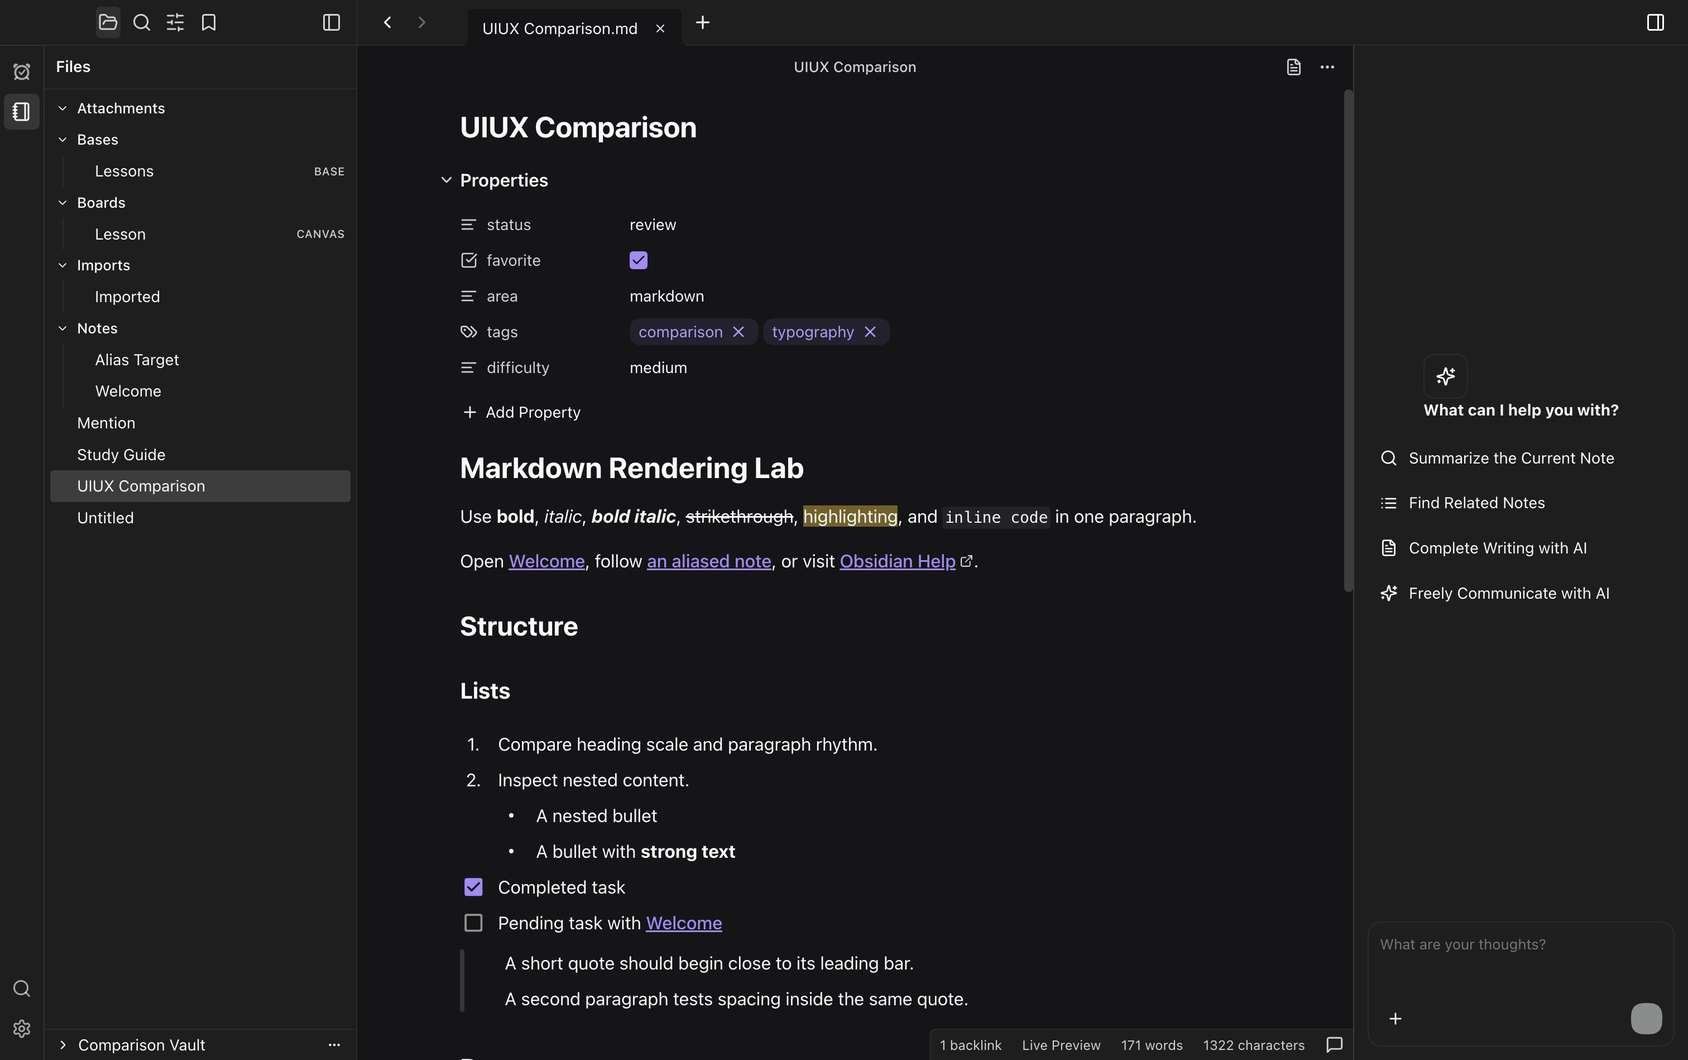
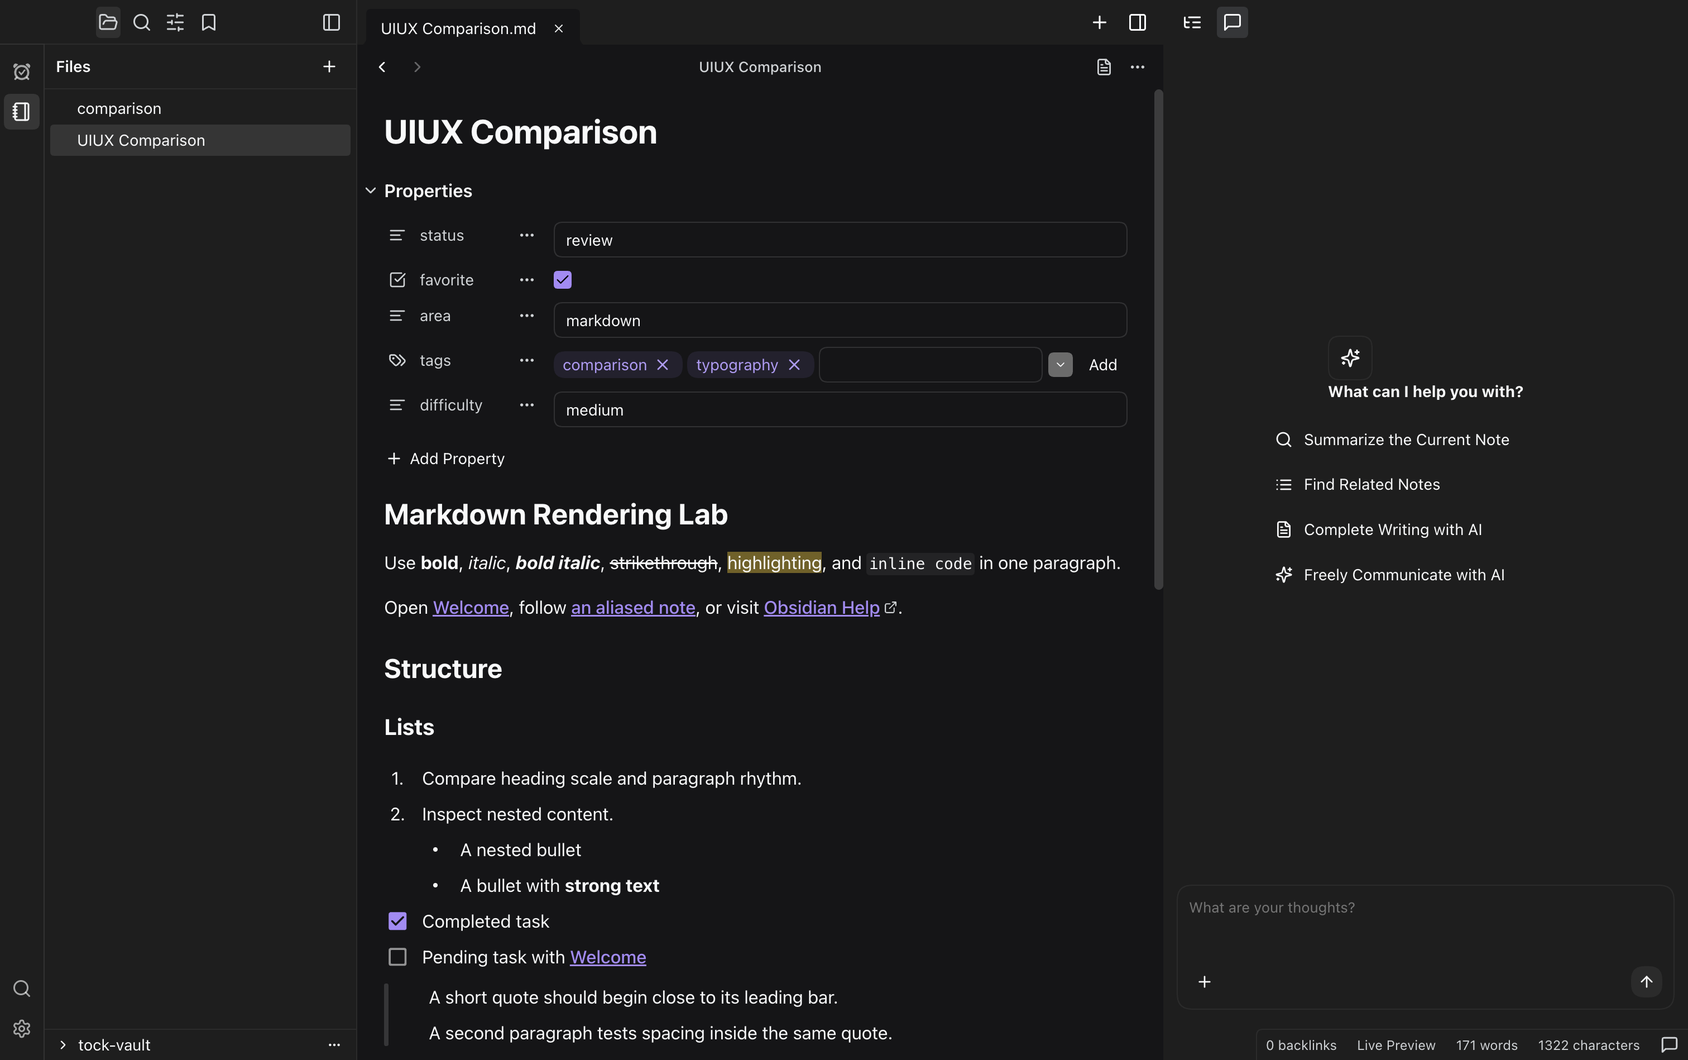
docs(tocktutor): refresh footer and composer screenshots

diff --git a/.agents/uiux/tocktutor/tocktutor.html b/.agents/uiux/tocktutor/tocktutor.html
@@ -348,9 +348,10 @@
     </section>
 
     <section class="surface" id="assistant">
-      <p class="section-number">Surface 20</p><h2>Assistant</h2><p class="section-note">The same <code>comparison.md</code> note in Live Preview beside an empty assistant conversation. Obsidian uses the already-installed Claudian 2.3.0 plugin. No prompt was sent and no response was invented; provider/model controls remain product-specific.</p>
+      <p class="section-number">Surface 20</p><h2>Assistant</h2><p class="section-note">The original shared note in Live Preview beside an empty assistant conversation. TockTutor's October 2 refresh preserves its exact 1,324 bytes; the Obsidian side retains its earlier Claudian 2.3.0 reference. No prompt was sent and no response was invented; provider/model controls remain product-specific.</p>
+      <p class="note"><strong>Footer and Composer Refresh:</strong> The footer stays at the far-right edge when Properties or Assistant opens. The composer has an extra 5 CSS pixels of upward clearance above the footer-safe area; all eight appearances show a 17-pixel gap and keyboard-accessible controls. Only the two TockTutor screenshots were refreshed; both references and all 69 other captures are unchanged. See the <a href="../../../.beads/reports/2026-10-02-tocktutor-footer-composer.md">footer and composer proof</a>.</p>
       <div class="comparison">
-        <figure class="tocktutor"><figcaption><span class="caption-title">TockTutor · Assistant</span><span class="badge">Current</span></figcaption><a class="screenshot-link" href="screenshots/tocktutor-assistant.png"><img src="screenshots/tocktutor-assistant.png" alt="TockTutor assistant"></a></figure>
+        <figure class="tocktutor"><figcaption><span class="caption-title">TockTutor · Assistant</span><span class="badge">Current</span></figcaption><a class="screenshot-link" href="screenshots/tocktutor-assistant.png"><img src="screenshots/tocktutor-assistant.png" alt="TockTutor showing the original shared note beside an empty Assistant with the footer at the far right and the composer lifted five pixels above the footer-safe area"></a></figure>
         <figure class="obsidian"><figcaption><span class="caption-title">Obsidian · Claudian</span><span class="badge">Installed Plugin</span></figcaption><a class="screenshot-link" href="screenshots/obsidian-assistant.png"><img src="screenshots/obsidian-assistant.png" alt="Obsidian Claudian 2.3.0 empty conversation beside the shared comparison.md content"></a></figure>
       </div>
     </section>
@@ -422,10 +423,10 @@
     </section>
 
     <section class="surface" id="imported-properties">
-      <p class="section-number">Surface 29</p><h2>Imported Property Controls</h2><p class="section-note">Both apps show the same <a href="comparison.md"><code>comparison.md</code></a>, including Markdown Rendering Lab and its original body. Its five existing properties are joined by a date, a date and time, an exponent-form number, and a nested object. All nine rows are visible with the in-note Properties group collapsed and each sidebar at 470 CSS pixels. TockTutor has separate Properties and Assistant titlebar buttons and the native calendar button before the date for both Date and Date & Time. Editable tags, row actions, and six type choices remain available. The nested value remains Use Source Mode in TockTutor and an object with the native Type mismatch, expected Text warning in Obsidian; controls and presentation are not identical.</p>
+      <p class="section-number">Surface 29</p><h2>Imported Property Controls</h2><p class="section-note">Both apps show the same <a href="comparison.md"><code>comparison.md</code></a>, including Markdown Rendering Lab and its original body. Its five existing properties are joined by a date, a date and time, an exponent-form number, and a nested object. All nine rows are visible with the in-note Properties group collapsed and each sidebar at 470 CSS pixels. TockTutor has separate Properties and Assistant titlebar buttons and the native calendar button before the date for both Date and Date & Time. Its footer stays at the far-right window edge while Properties is open. Editable tags, row actions, and six type choices remain available. The nested value remains Use Source Mode in TockTutor and an object with the native Type mismatch, expected Text warning in Obsidian; controls and presentation are not identical.</p>
       <p class="fixture-proof"><strong>Properties Layout Refresh:</strong> TockTutor's compact rows align with the installed Obsidian reference within one CSS pixel; separate Properties and Assistant buttons sit in the titlebar. Both show identical 1,413-byte <code>comparison.md</code> copies and the same 170-byte property-type registry. Built-in dark/no skin, 1512 × 949 CSS pixels at 2×, 3024 × 1898 PNGs, and zero capture-time errors are verified. Only TockTutor's screenshot was replaced; the installed reference and all 71 other captures are unchanged. See the <a href="content-alignment.md">updated capture proof</a>. No Obsidian reinstall, update, user-vault change, save/restoration test, or exhaustive native-parity claim.</p>
       <div class="comparison">
-        <figure class="tocktutor"><figcaption><span class="caption-title">TockTutor · Imported Properties</span><span class="badge">Current</span></figcaption><a class="screenshot-link" href="screenshots/tocktutor-imported-properties.png"><img loading="lazy" src="screenshots/tocktutor-imported-properties.png" alt="TockTutor showing comparison.md and Markdown Rendering Lab beside nine compact Properties rows, with separate titlebar buttons, calendars before both dates, exponent-form number and Source Mode fallback"></a></figure>
+        <figure class="tocktutor"><figcaption><span class="caption-title">TockTutor · Imported Properties</span><span class="badge">Current</span></figcaption><a class="screenshot-link" href="screenshots/tocktutor-imported-properties.png"><img loading="lazy" src="screenshots/tocktutor-imported-properties.png" alt="TockTutor showing comparison.md and Markdown Rendering Lab beside nine compact Properties rows, with separate titlebar buttons, calendars before both dates, exponent-form number, Source Mode fallback and footer at the far-right window edge"></a></figure>
         <figure class="obsidian"><figcaption><span class="caption-title">Obsidian · Imported Properties</span><span class="badge">Reference</span></figcaption><a class="screenshot-link" href="screenshots/obsidian-imported-properties.png"><img loading="lazy" src="screenshots/obsidian-imported-properties.png" alt="Already installed Obsidian showing the identical comparison.md and Markdown Rendering Lab with all nine File properties rows, dates, checked favorite, tags, exponent-form number and nested-value warning"></a></figure>
       </div>
     </section>

diff --git a/tests/tocktutor-gallery.test.ts b/tests/tocktutor-gallery.test.ts
@@ -205,8 +205,8 @@ test('pairs Imported Property Controls with genuine Obsidian and the identical s
   assert.equal(refresh.samePropertyTypes, true)
   assert.equal(refresh.reusesExistingBuild, true)
   const current = proof.captures['tocktutor-imported-properties.png']
-  assert.equal(current.sourceCommit, proof.propertyCalendarRefresh.sourceCommit)
-  assert.equal(current.sha256, proof.propertyCalendarRefresh.screenshotSha256)
+  assert.equal(current.sourceCommit, proof.footerComposerRefresh.sourceCommit)
+  assert.equal(current.sha256, proof.footerComposerRefresh.screenshotSha256s['tocktutor-imported-properties.png'])
   assert.equal(current.visibleState.rightSidebar, true)
   assert.equal(current.visibleState.fullHeightNote, true)
   assert.equal(current.visibleState.rootColorScheme, 'dark')
@@ -273,7 +273,7 @@ test('publishes the current Properties comparison in the canonical gallery from 
   assert.equal(refresh.registryUnchanged, true)
   const current = proof.captures['tocktutor-imported-properties.png']
   const native = proof.captures['obsidian-imported-properties.png']
-  assert.equal(current.sourceCommit, proof.propertyCalendarRefresh.sourceCommit)
+  assert.equal(current.sourceCommit, proof.footerComposerRefresh.sourceCommit)
   assert.equal(refresh.status, 'verified-historical')
   assert.equal(native.sha256, refresh.screenshotSha256s['obsidian-imported-properties.png'])
   assert.equal(native.entry, '/Applications/Obsidian.app/Contents/Resources/app.asar')
@@ -344,9 +344,9 @@ test('aligns compact Properties rows and titlebar buttons without replacing the 
 test('places native calendar controls before both property dates in all eight appearances', () => {
   const refresh = proof.propertyCalendarRefresh
   const current = proof.captures['tocktutor-imported-properties.png']
-  assert.equal(refresh.status, 'verified-current')
-  assert.equal(current.sourceCommit, refresh.sourceCommit)
-  assert.equal(current.sha256, refresh.screenshotSha256)
+  assert.equal(refresh.status, 'verified-historical')
+  assert.equal(current.sourceCommit, proof.footerComposerRefresh.sourceCommit)
+  assert.equal(current.sha256, proof.footerComposerRefresh.screenshotSha256s['tocktutor-imported-properties.png'])
   assert.deepEqual(refresh.publicationAllowlist, ['tocktutor-imported-properties.png'])
   assert.equal(refresh.installedReferenceUnchanged, true)
   assert.equal(refresh.unrelatedExistingCapturesUnchanged, 72)
@@ -375,6 +375,50 @@ test('places native calendar controls before both property dates in all eight ap
   assert.match(html, /calendar button before the date/u)
 })
 
+test('keeps one footer at the workspace right edge and lifts the composer without changing comparison content', () => {
+  const refresh = proof.footerComposerRefresh
+  assert.equal(refresh.status, 'verified-current')
+  assert.deepEqual(refresh.publicationAllowlist, ['tocktutor-imported-properties.png', 'tocktutor-assistant.png'])
+  assert.equal(refresh.unrelatedExistingCapturesUnchanged, 71)
+  assert.equal(refresh.installedReferencesUnchanged, true)
+  assert.equal(refresh.composerLift, 5)
+  assert.equal(refresh.composerPadding, 17)
+  assert.equal(refresh.footerSafeArea, 28)
+  assert.equal(refresh.noPromptSent, true)
+  for (const name of refresh.publicationAllowlist) {
+    const current = proof.captures[name]
+    assert.equal(current.sourceCommit, refresh.sourceCommit)
+    assert.equal(current.sha256, refresh.screenshotSha256s[name])
+    assert.equal(current.visibleState.footer.x + current.visibleState.footer.width, 1512)
+    assert.equal(current.visibleState.footer.y + current.visibleState.footer.height, 949)
+    assert.equal(current.theme, 'dark')
+    assert.equal(current.skin, null)
+  }
+  assert.equal(proof.captures['tocktutor-assistant.png'].contentSha256, proof.captures['obsidian-assistant.png'].contentSha256)
+  assert.equal(proof.captures['tocktutor-assistant.png'].visibleState.composer.bottom + refresh.composerPadding, 921)
+  assert.equal(refresh.appearanceChecks.length, 8)
+  for (const check of refresh.appearanceChecks) {
+    assert.equal(check.footerRight, 1512)
+    assert.equal(check.footerBottom, 949)
+    assert.equal(check.footerCount, 1)
+    assert.equal(check.composerLift, 5)
+    assert.ok(check.composerGap >= 5)
+    assert.ok(check.footerContrast >= 4.5)
+    assert.notEqual(check.mode.toLowerCase(), check.system)
+  }
+  assert.equal(refresh.narrow.width, 240)
+  assert.deepEqual(refresh.narrow.overflow, [])
+  assert.equal(refresh.keyboardFocus.outline, '2px')
+  assert.equal(refresh.keyboardFocus.hit, true)
+  assert.equal(refresh.escapeRestored, true)
+  assert.deepEqual(refresh.runtimeErrors, [])
+  assert.equal(refresh.cleanup.stopped, true)
+  assert.deepEqual(refresh.cleanup.remaining, [])
+  assert.equal(refresh.galleryCleanup.serverStopped, true)
+  assert.deepEqual(refresh.galleryCleanup.remaining, [])
+  assert.match(html, /composer has an extra 5 CSS pixels/u)
+})
+
 test('keeps unmatched migration surfaces distinct from the four focused comparisons', () => {
   const additions = proof.migrationReview
   assert.equal(additions.allowlist.length, 6)
@@ -391,7 +435,7 @@ test('keeps unmatched migration surfaces distinct from the four focused comparis
     assert.equal(proof.captures[name].captureScope, 'real-desktop')
     const expectedCommit = name === 'tocktutor-image-viewer.png' ? additions.imageViewerRefresh.sourceCommit
       : name === 'tocktutor-image-resizing.png' ? additions.imageLayoutRefresh.sourceCommit
-        : name === 'tocktutor-imported-properties.png' ? proof.propertyCalendarRefresh.sourceCommit : additions.sourceCommit
+        : name === 'tocktutor-imported-properties.png' ? proof.footerComposerRefresh.sourceCommit : additions.sourceCommit
     assert.equal(proof.captures[name].sourceCommit, expectedCommit)
   }
   const fixtures = resolve(root, additions.fixtures)

diff --git a/.beads/reports/2026-10-02-tocktutor-footer-composer.md b/.beads/reports/2026-10-02-tocktutor-footer-composer.md
@@ -1,0 +1,35 @@
+# TockTutor Footer and Composer Verification
+
+Source checkpoint: `c87ad048`. Beads: `tockteam-mt6r`. No push.
+
+## Confirmed Findings
+
+Total: **2 confirmed scoped findings**, both fixed and verified.
+
+1. **Low — Footer shifted left with the right panel.** Impact: status information stayed under the editor rather than the window's far-right edge; split editors duplicated it. Affected path: `plugins/tocktutor/packages/tockteam-tocktutor-workbench/src/route.tsx`. Fix: move the unchanged footer to the existing Workbench grid and reserve its existing height in right-panel siblings. Verification: scope and duplicate-footer REDs; focused-note counts and independent editor seats through nested splits; real Desktop right=1512/bottom=949 in Properties, Assistant, closed and narrow states. Editor remains full-height.
+2. **Low — Composer needed footer clearance.** Impact: bottom input/actions could be covered by the moved footer. Affected paths: Workbench grid and `plugins/tocktutor/packages/tockteam-tocktutor-assistant/src/assistant-panel.tsx`. Fix: footer-safe area28px and composer bottom padding12→17px. Verification: offset RED; real A/B measurement gives exactly5px additional lift within that safe area and17px visible gap, keyboard Send focus2px and successful hit test; Add Context Escape restores focus. No prompt sent. Overall window displacement includes the safe area as well as the requested5px; it is not claimed to be only5px.
+
+## Verification
+
+- `pnpm -C plugins/tocktutor/packages/tockteam-tocktutor-workbench exec vitest run tests/route-panel-controls.test.tsx tests/route-split-panes.test.tsx tests/route-linked-panes.test.tsx tests/properties-sidebar.test.tsx --environment jsdom --maxWorkers=4`:164 passed.
+- `pnpm -C plugins/tocktutor/packages/tockteam-tocktutor-assistant exec vitest run tests/assistant-panel.test.tsx --environment jsdom --maxWorkers=4`:13 passed.
+- `pnpm run typecheck:tocktutor`:passed.
+- `pnpm run test:tocktutor`:Node suites99/216/15/429 passed; unbounded component run hit unchanged5s capped Replace All timeout. Exact focused retry and `pnpm -C plugins/tocktutor/packages/tockteam-tocktutor-workbench run test:component --maxWorkers=4`:790/790 passed, no test/source/time-budget weakening.
+- `pnpm run build:tocktutor`, `pnpm run typecheck`, `pnpm run build`, `node scripts/stage-dsh.mjs --quick`, `node scripts/tocktutor-build-manifest.mjs --check`:passed.
+- `pnpm test`:first1697/1/18 with a Native persistence projected-commit race; unchanged `node --test tests/user-raycast-form-persistence.test.ts`:11/11, exact full-root retry1698/0/18. Owner triaged read-only; no Native file mutation.
+- Guarded real Desktop on extended display17, Playwright attached only to owned CDP. Durable runnable check: `.beads/reports/2026-10-02-tocktutor-footer-check.js`. Eight app/system-mismatch appearances pass footer/composer geometry, narrow240px no overflow, switch/draft/closed focus and native leading calendars. Footer-text contrast minimum5.32:1. Runtime errors/external requests zero.
+- React Doctor:two complexity warnings in existing large functions, no new branches/architecture changes; numerical score unavailable. Not claimed as a clean scored gate.
+
+## Screenshot Publication
+
+Only the canonical TockTutor Properties and Assistant PNGs are replaced transactionally. Both1512×949 CSS@2 produce unmodified3024×1898 PNGs, built-in dark/no skin, Live Preview. Expanded Properties1413 bytes/SHA6792ccbb…; original Assistant1324 bytes/SHA3a55316a… reconstructed only in disposable fixture; registry170 bytes unchanged. Retained references and all71 other screenshots stay byte-identical. Historical reference captures are not relabeled as newly installed/native captures. Current proof: `.agents/uiux/tocktutor/content-alignment.json` `footerComposerRefresh`.
+
+## Cleanup and Ownership
+
+Owned Desktop root1259, recorded1259/1261/1262/1264/1265/1270/1281/1484:stopped, remaining empty. Playwright detached. Separate gallery verification decoded both pairs at1512×949 CSS@2 with29 surfaces/66 unique images, no runtime/request/HTTP errors. Gallery root6850 and all4 recorded PIDs stopped, remaining empty; server6772 ESRCH/port55237 closed; Playwright(no browsers). `node --test tests/tocktutor-gallery.test.ts tests/tocktutor-content-alignment.test.ts`:21/21, manifest passed. Canonical JSON records both cleanup trees before proof commit. Protected `AGENTS.md`, `tests/right-panel-layout.test.ts` and pre-existing linked-pane test hunks remain byte-identical; all9 Native source/test hashes frozen at2fa90c6f remain unchanged.
+
+An empty unowned `.git/index.lock` blocked the initial source checkpoint. No open handle/agent owner found; user explicitly approved removing only that temporary file. Size/type/mtime were checked unchanged before removal. No other user change was removed, staged or committed.
+
+## Limits
+
+No new palette, component, dependency, event handler, Host/IPC/process/filesystem/plugin authority, application reinstall, user profile/vault/Keychain/clipboard/account operation or foreground automation. No exhaustive new Obsidian or agent-function certification. The owner's separate Native date-reset edge and persistence harness timing fix remain outside this task. Restart Electron to see the changes.

diff --git a/.agents/uiux/tocktutor/content-alignment.md b/.agents/uiux/tocktutor/content-alignment.md
@@ -1,6 +1,23 @@
 # TockTutor and Obsidian Content Alignment
 
-## Current Calendar Placement — 2026-10-02
+## Current Footer and Composer — 2026-10-02
+
+Source checkpoint `c87ad048` keeps one status bar at the whole workspace's bottom-right edge, not inside each editor. Counts follow the focused note through splits. Shared right-panel siblings reserve the existing 28px footer height without shortening the note editor; the Assistant composer's bottom padding increases from 12px to 17px, an independently measured extra 5px lift above that footer-safe area.
+
+**Total: 2 confirmed scoped findings, fixed and verified.**
+
+1. **Low — Footer shifted left when the right panel opened.** Impact: statistics stayed below the note instead of the far-right window edge; split editors also duplicated the footer. Affected path: `plugins/tocktutor/packages/tockteam-tocktutor-workbench/src/route.tsx`. Fixed by reparenting the same footer to the existing Workbench grid. Component REDs proved the old editor-bound parent and duplicate controls. GREEN checks prove a single footer with right=1512/bottom=949 in Properties, Assistant, closed and 240px-wide panel states; focused-note counts and editor seats survive nested splits.
+2. **Low — Composer lacked footer clearance.** Impact: bottom controls could be obscured by the relocated footer. Affected paths: the Workbench grid and `plugins/tocktutor/packages/tockteam-tocktutor-assistant/src/assistant-panel.tsx`. Fixed by reserving the existing footer height and changing composer padding 12→17. Rendered A/B measurement proves exactly 5px of additional upward movement within that safe area, a 17px gap above the footer, visible 2px Send focus, a successful hit test, and Escape focus restoration from Add Context. No prompt was sent. Total window movement also includes the required footer-safe area; it is not mislabeled as only 5px.
+
+Both current screenshots use 1512 × 949 CSS at DPR 2, unscaled 3024 × 1898 PNGs, built-in dark/no skin, Live Preview and empty/unchanged saved state. Properties preserves the expanded 1,413-byte note (`6792ccbb…`); Assistant preserves the original 1,324-byte note (`3a55316a…`) matching its retained reference. Its original frontmatter was reconstructed only in the temporary fixture, not rewritten in the repository. Registry170 bytes remains unchanged. Only `tocktutor-imported-properties.png` and `tocktutor-assistant.png` are allowlisted; all 71 other captures, including the installed Properties and historical Assistant/Claudian references, remain unchanged. No new reference/backend/native-certification claim.
+
+Default Dark/Light and Navy/Jade/Ember in both modes pass with opposite system appearance: one right-edge footer, 5px additional composer lift, 17px gap, no 240px overflow, native leading calendars preserved, keyboard/drafts/closed focus preserved, and footer-text contrast at least 5.32:1. Current provenance is `footerComposerRefresh`; prior calendar/layout metadata remains historical.
+
+Focused Workbench checks pass164/164 and Assistant13/13; nested Node99+216+15+429 and bounded full Workbench790/790 pass. The unchanged 5s capped Replace All test timed out in the unbounded nested run, then passed focused and full four-worker retries. Root1698 pass/0 fail/18 optional skips, root/nested typechecks, builds, quick stage and manifest pass. The first root run had an unrelated Native persistence projected-frame race; unchanged focused11 and full-root retries pass, with its owner retaining the separate test correction. React Doctor reports two complexity warnings in existing large functions; no new branches or refactor, numerical score unavailable. The empty unowned save lock was removed only after explicit user approval and unchanged-empty-file checks.
+
+The owned Desktop root1259 and all8 recorded PIDs stopped with remaining empty; Playwright detached. After transactional publication, the canonical gallery decodes both pairs at the required geometry with29 surfaces/66 unique images and no errors or failed requests. Gallery root6850 and all4 recorded PIDs stopped, remaining empty; server6772 is absent and port55237 closed. Final gallery/alignment checks pass21/21. Full runtime and gallery cleanup records live in `footerComposerRefresh`. Protected user bytes and all nine frozen Native files remain unchanged. Restart Electron to load the fixes.
+
+## Historical Calendar Placement — 2026-10-02
 
 The native calendar button now appears before the value for both Date and Date & Time, matching the placement in the unchanged installed Obsidian reference. Source checkpoint `09c3c06a` changes only the shared Properties field's Tailwind layout: reorder the existing indicator, remove its leading margin, and leave a small gap. No duplicate icon, custom picker, palette, event handler, date conversion, or Host change.
 
